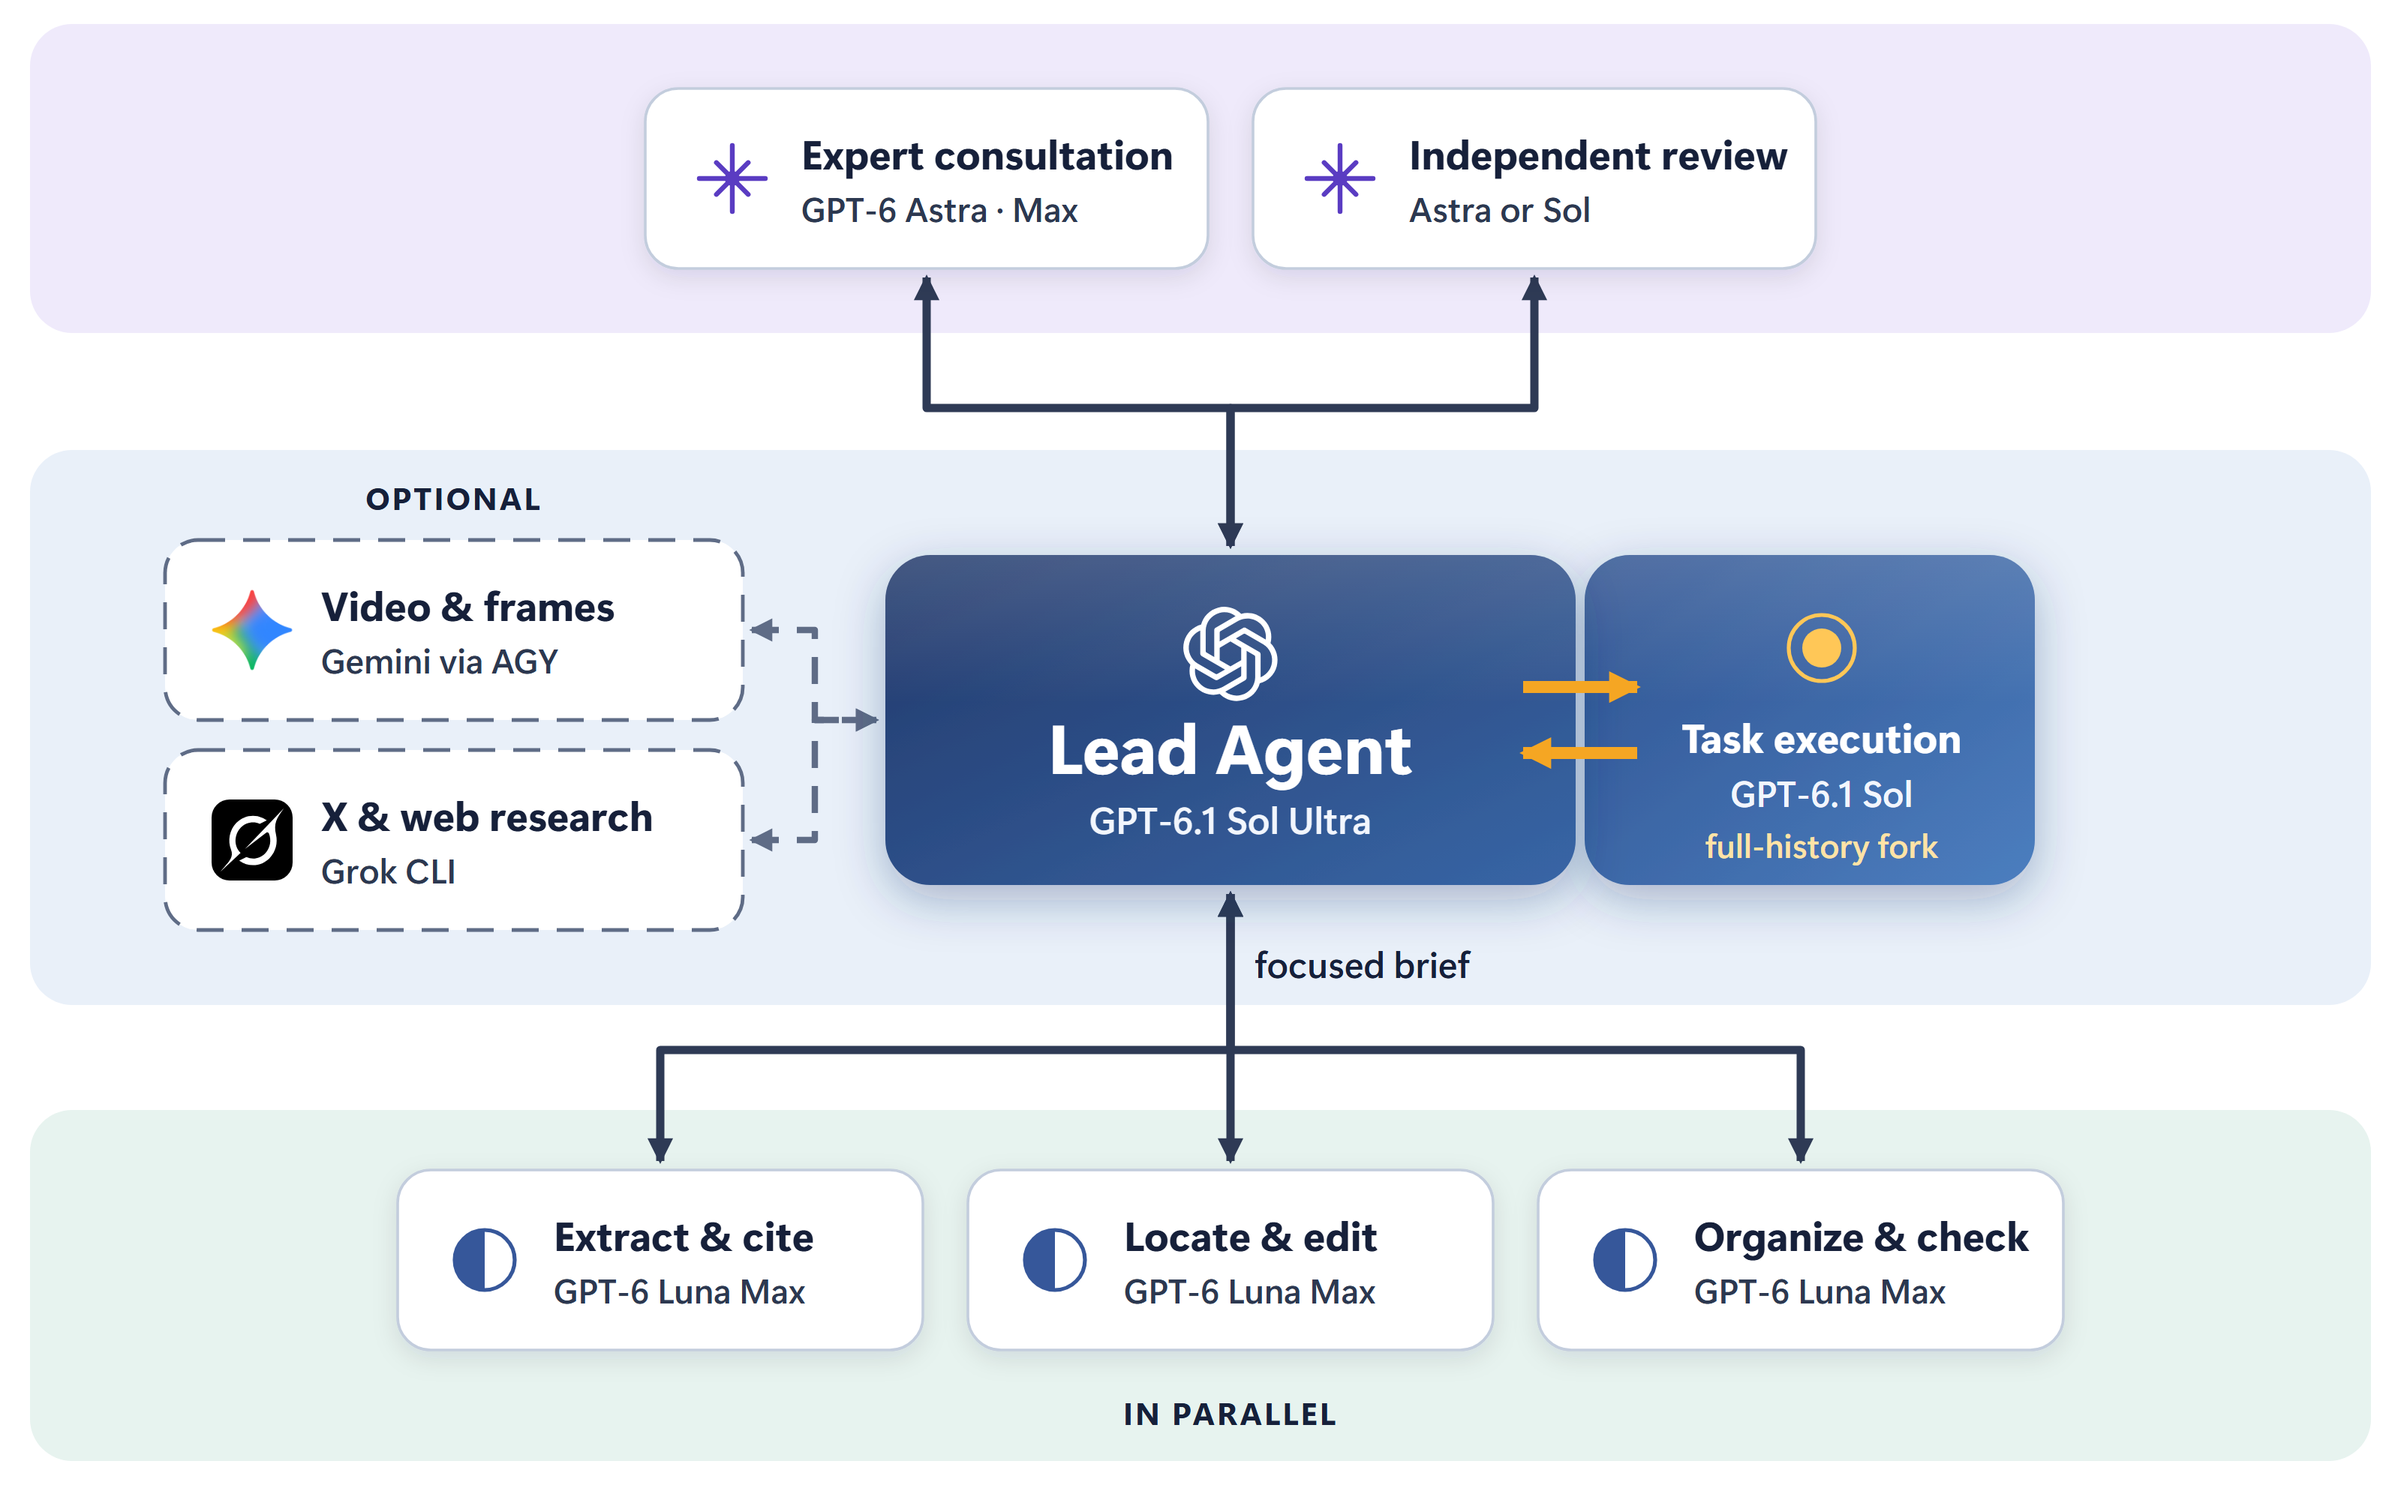
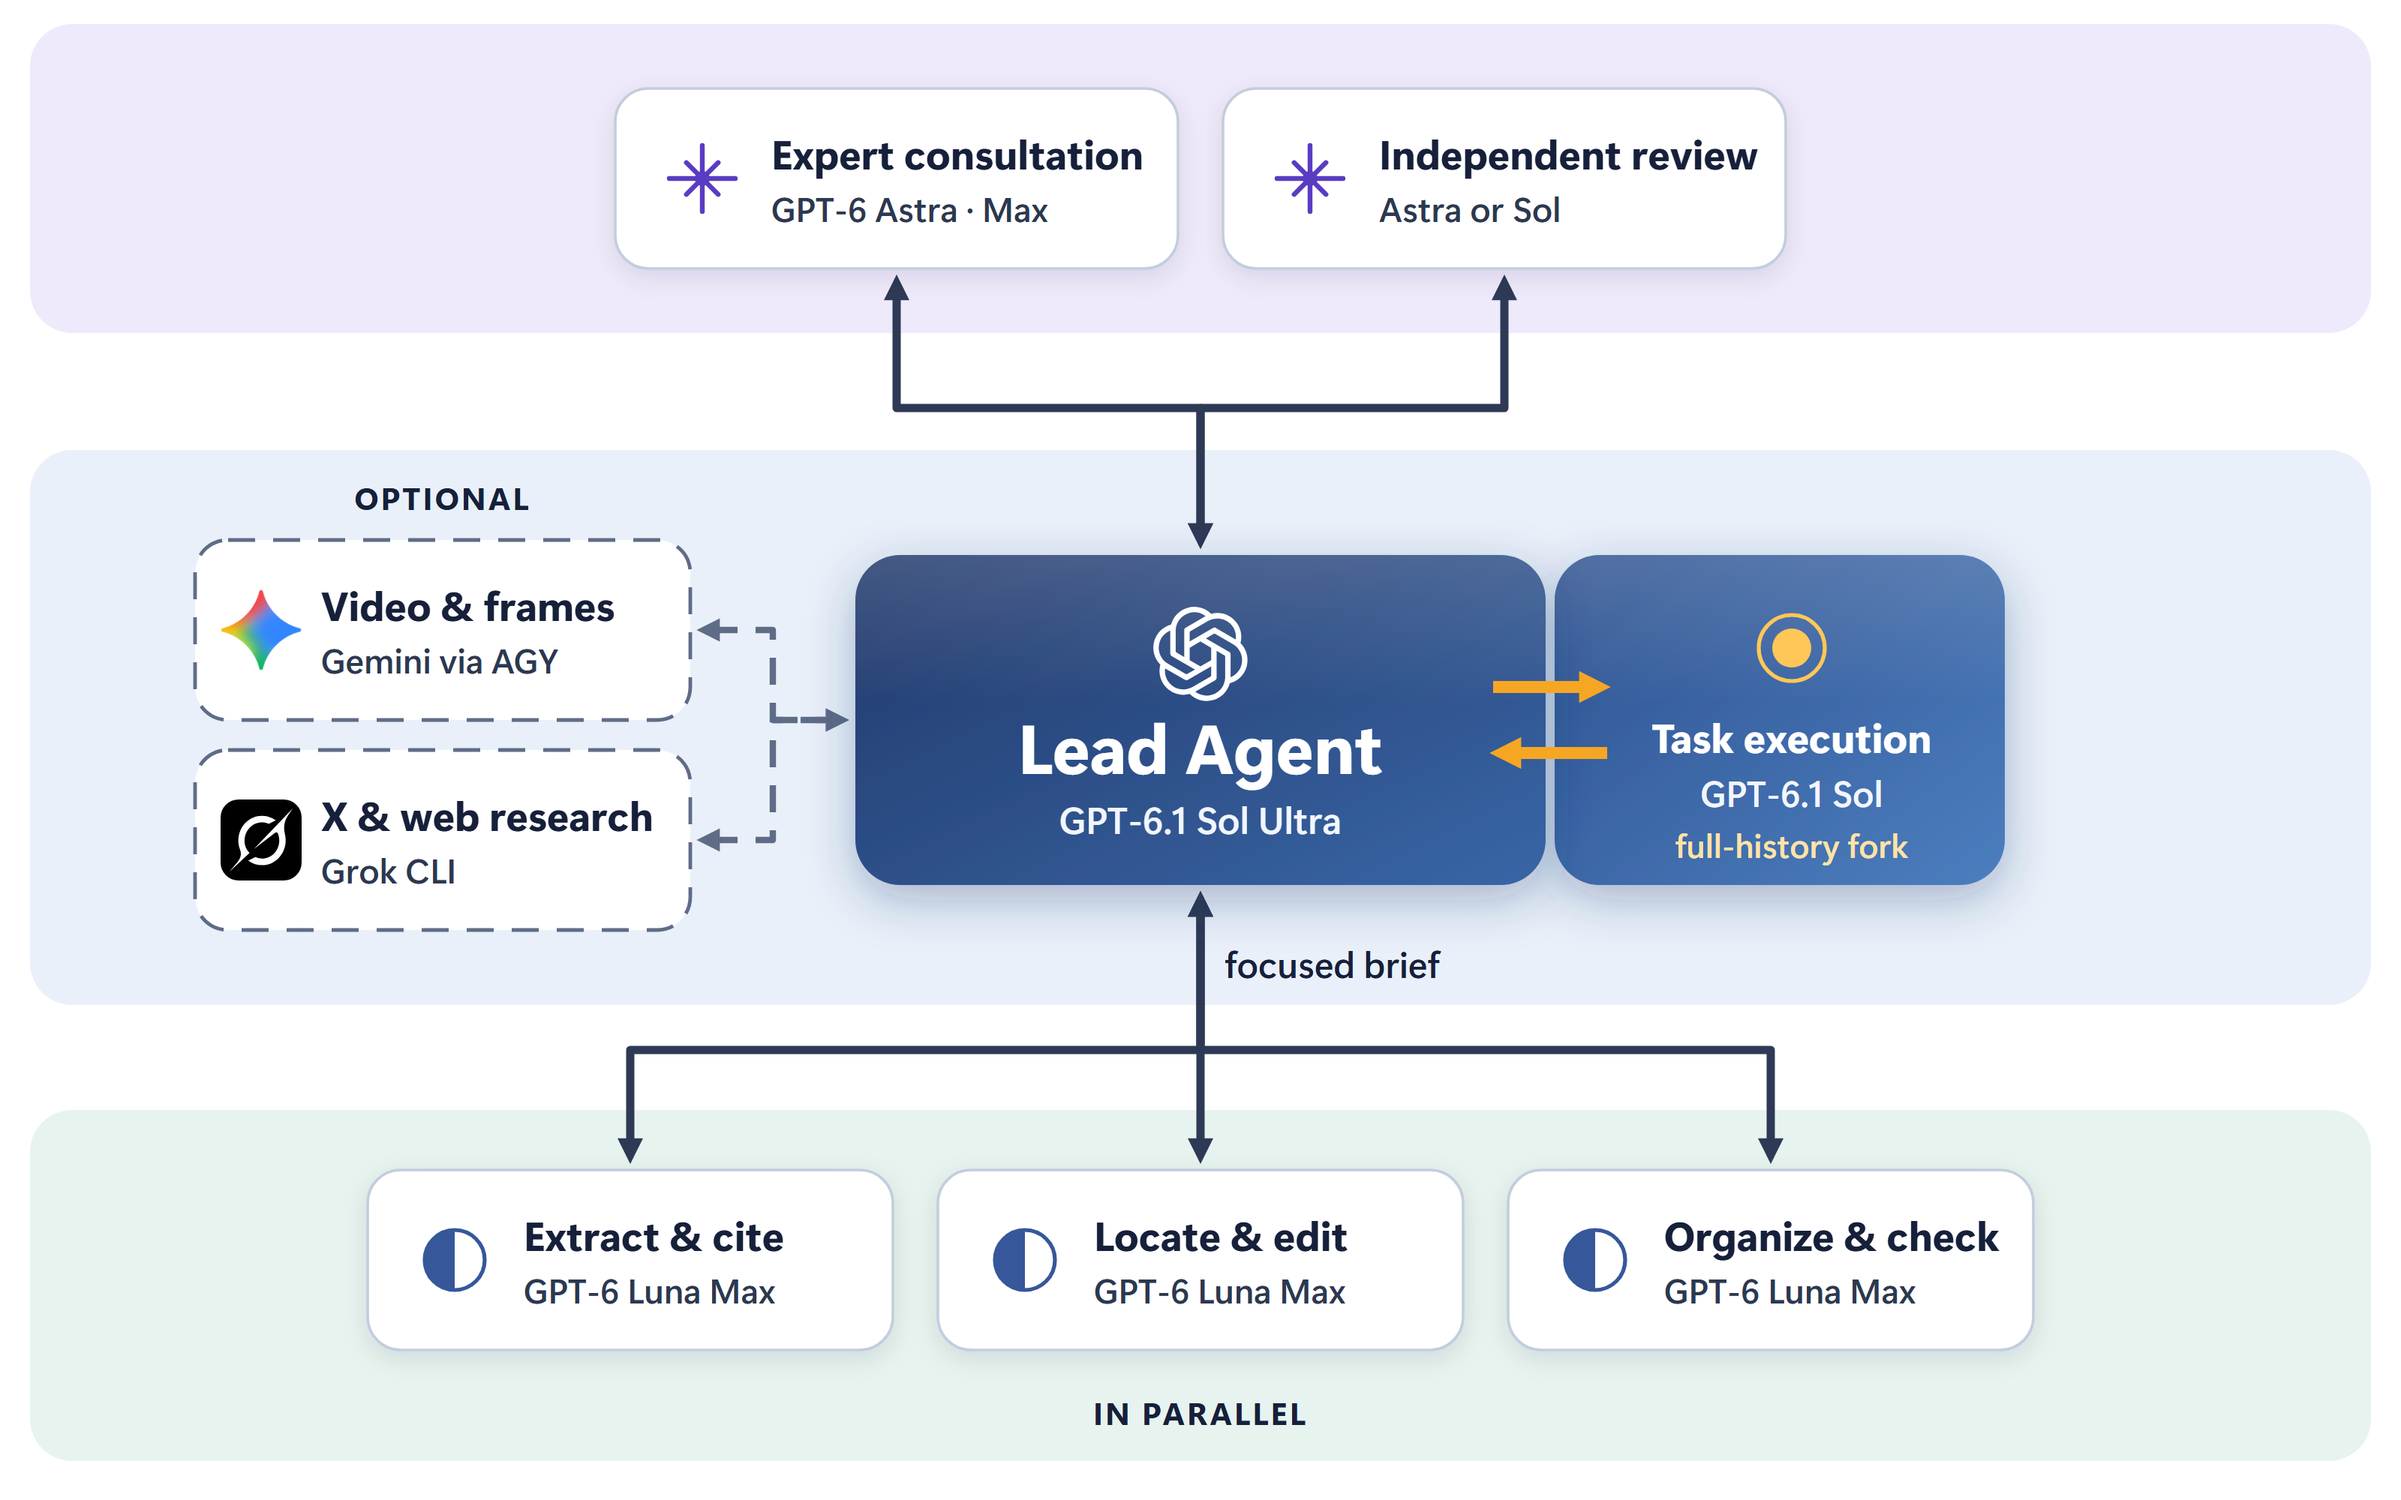
Sharpen the overview arrows and centre the Lead card
Draw arrowheads as separate triangles so the shafts no longer blunt the tips, tighten the optional cards, and centre the Lead card on the canvas. The generator gains a layout argument (centered or balanced).

diff --git a/assets/source/README.md b/assets/source/README.md
@@ -12,6 +12,6 @@ This writes `subagent-manager-overview.svg` (the editable source copy) and a loc
 msedge --headless=new --hide-scrollbars --force-device-scale-factor=2 --window-size=1600,1000 --screenshot=subagent-manager-overview.png assets/source/subagent-manager-overview.html
 ```
 
-Pass `joinA` as an argument to build the alternative with a white Sol card and two-tone arrows. Layout, colours, and icons are defined at the top of the script.
+Pass `joinA` as the first argument to build the alternative with a white Sol card and two-tone arrows. A second argument sets the middle row: `centered` (default, used in the README) centres the Lead card on the canvas; `balanced` centres the whole row, optional cards included. Colours and icons are defined at the top of the script.
 
 See [asset sources](ASSET_SOURCES.md) for third-party artwork provenance.
